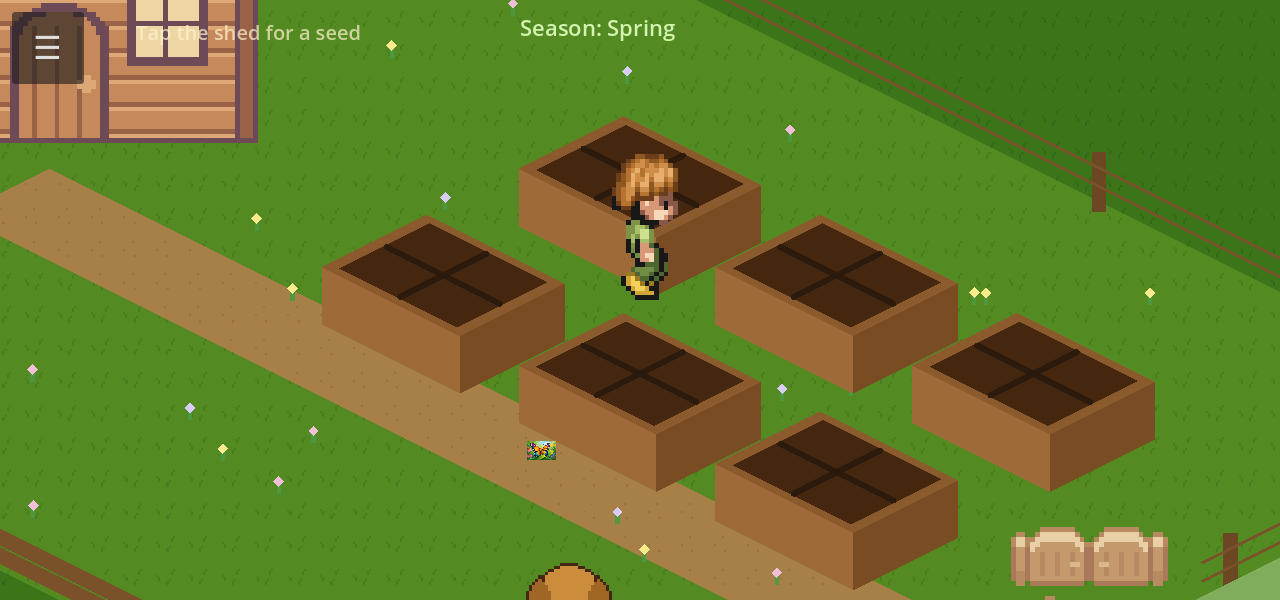
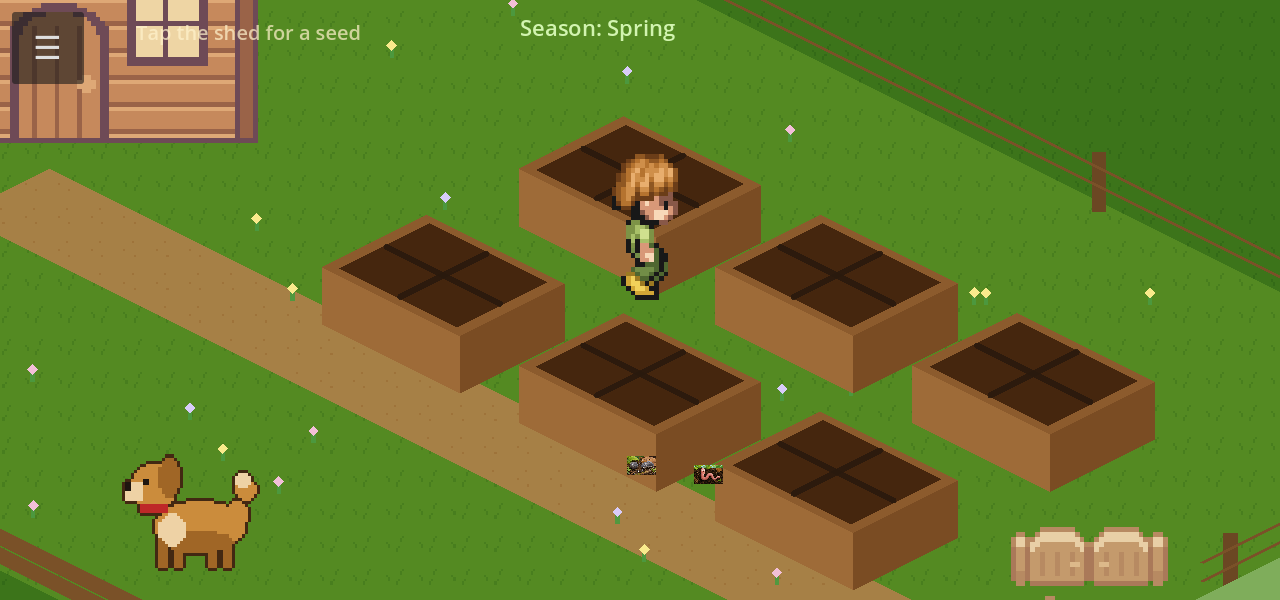
Garden Explorer: same-zone animal targeting; separate gate routing
Tap-to-target only works for dog/bugs in the garden and pen animals in the
pen — never across the fence. Cross-boundary walks now explicitly route
garden→gate→pen (and back); animal follow never mixes with that path.

diff --git a/garden_explorer/docs/IMPLEMENTATION_PLAN_DEBUG_ROUND_2.md b/garden_explorer/docs/IMPLEMENTATION_PLAN_DEBUG_ROUND_2.md
@@ -139,5 +139,13 @@ original list.
   freeze panels, waits for logs instead of fixed settles, retries taps a
   roaming animal stole, and asserts per-bed watering.
 
+## Round 6 — zone targeting (2026-07-26)
+- Tap-to-target animals/bugs is same-zone only: dog + garden bugs from the
+  garden; pen animals + pen bugs only once the player is already inside the
+  pen. Cross-fence animal taps never start follow.
+- Gate routing is separate: FarmMap.find_path concatenates garden→gate→pen
+  (and the reverse) for cross-boundary walks. Same-side walks never visit
+  the gate. Animal follow never asks the pathfinder to cross the fence.
+
 ## Always
 - Headless unit tests + ux_suite after each phase; rebuild APK & install last.
